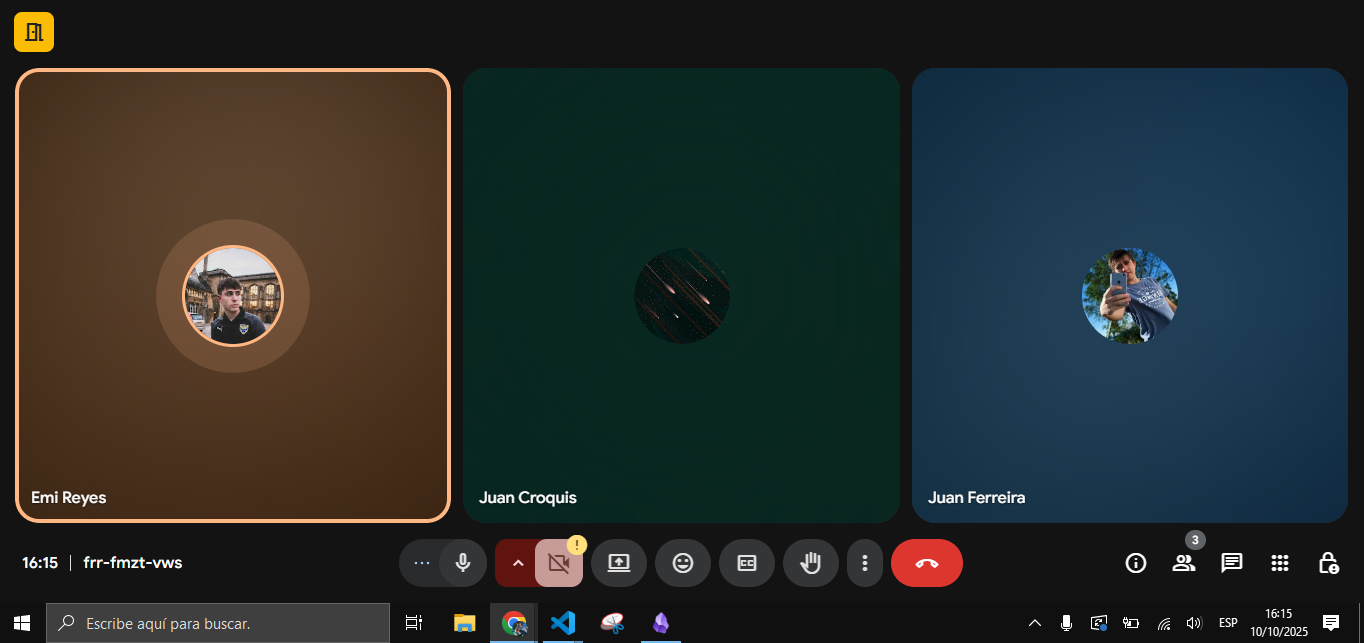
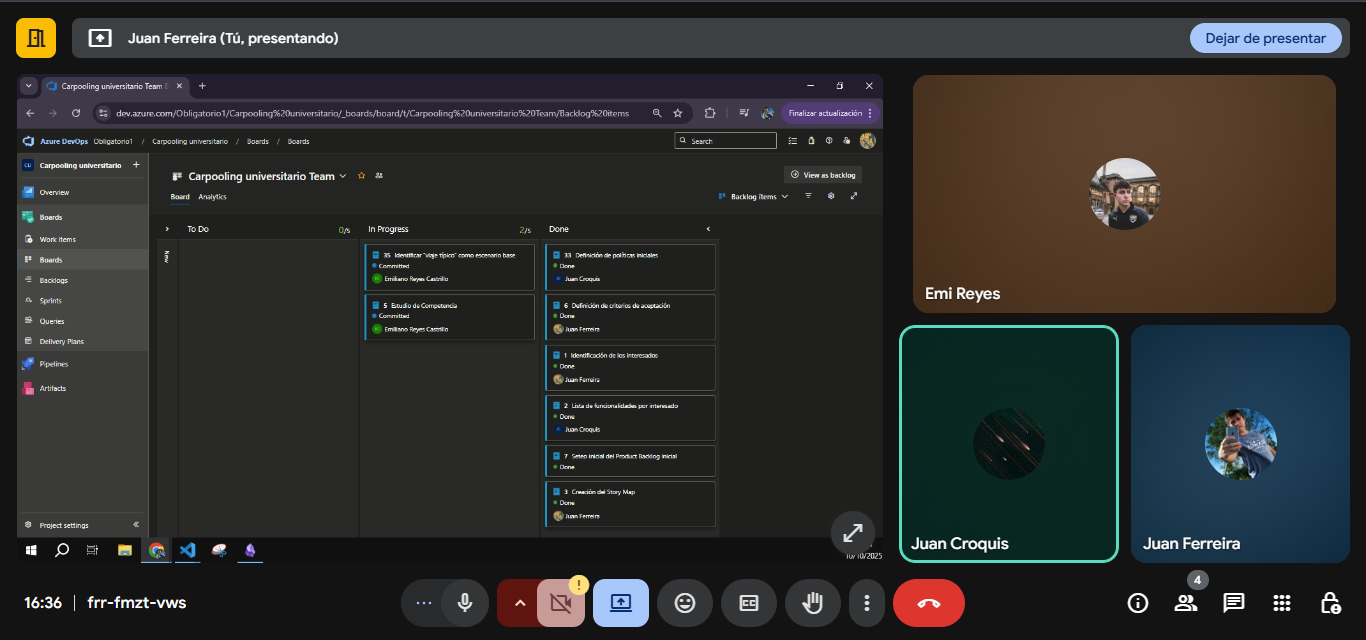
Daily 3

diff --git a/iteración-1/README.md b/iteración-1/README.md
@@ -182,6 +182,11 @@ Nos queda pendiente para la proxima y ultima daily; la de definir cómo sería u
 
 ### Minuta 5: Daily 3 (10/10/2025)
 
+El Viernes 10 de octubre, realizamos la última daily con el objetivo coordinar el trabajo del equipo y revisar los ultimos detalles antes de finalizar la iteración 1. Se definio la Epica 6 con detalles que serán realizados en la iteración 4, se hicieron las politicas iniciales las cuales iban estar representadas en el funcionamiento del prototipo y reglas generales. Queda también registrado en el backlog las historias de usuario de las cards correspondientes a esta sprint.
+Nos queda pendiente la definición de viaje típico y una conclusión final de análisis de competidores.
+
+![Imagen](Reuniones/Daily3.PNG "Daily 3")
+
 ## Inspección y adaptación del proceso
 
 ### Minuta 6: Review (11/10/2025)
@@ -482,3 +487,5 @@ Incluye tareas y funcionalidades relacionadas con los ajustes visuales y la docu
 > **Nota:** La asignación de historias de usuario a cada sprint se definirá durante las sesiones de **Sprint Planning**.  
 > Actualmente, todas las historias se encuentran **priorizadas en el Product Backlog** y **organizadas por épicas** dentro de **Azure Boards**, lo que permite una gestión clara y trazable del progreso del proyecto.
 
+
+## ⌛ Registro de Horas del equipo
